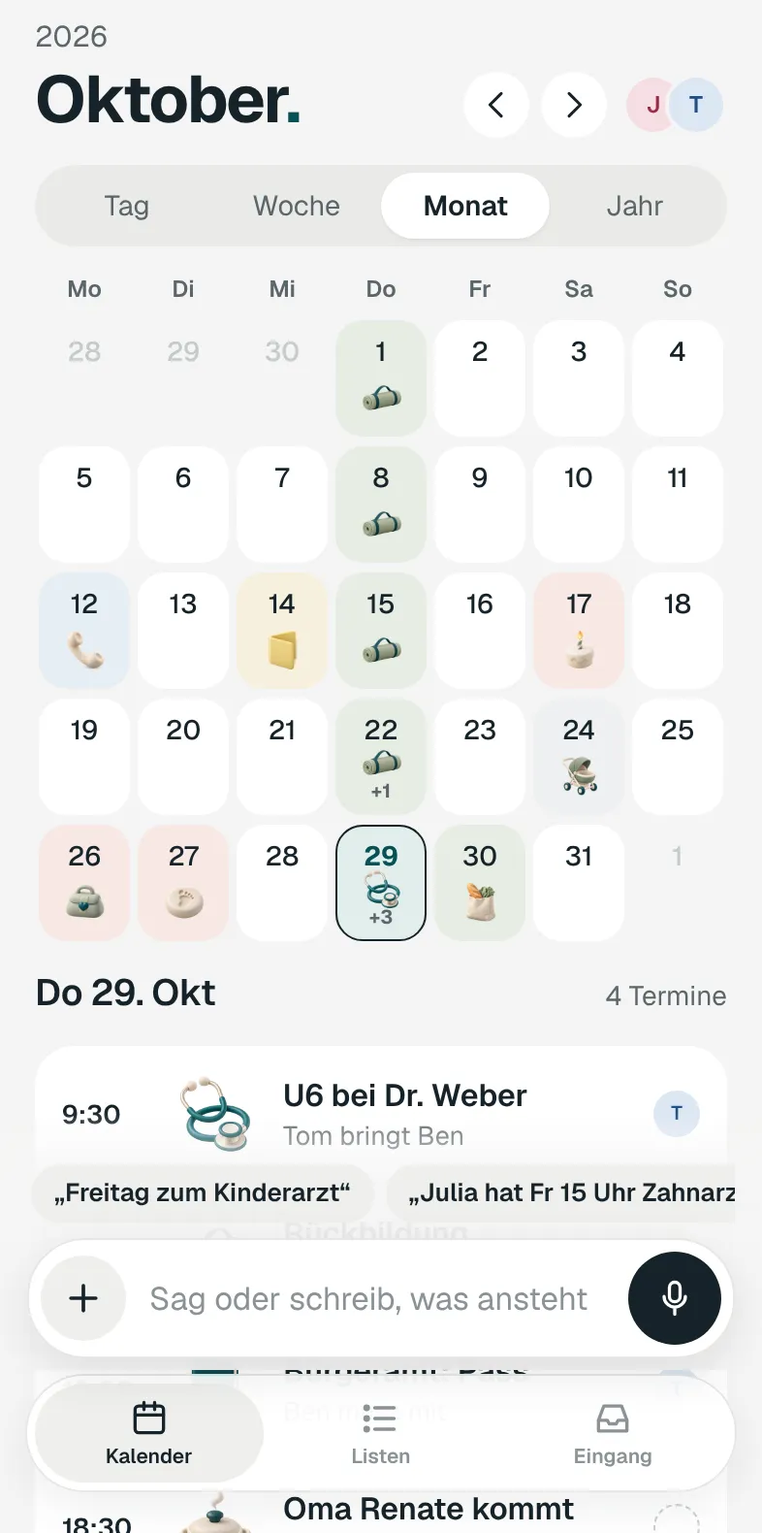
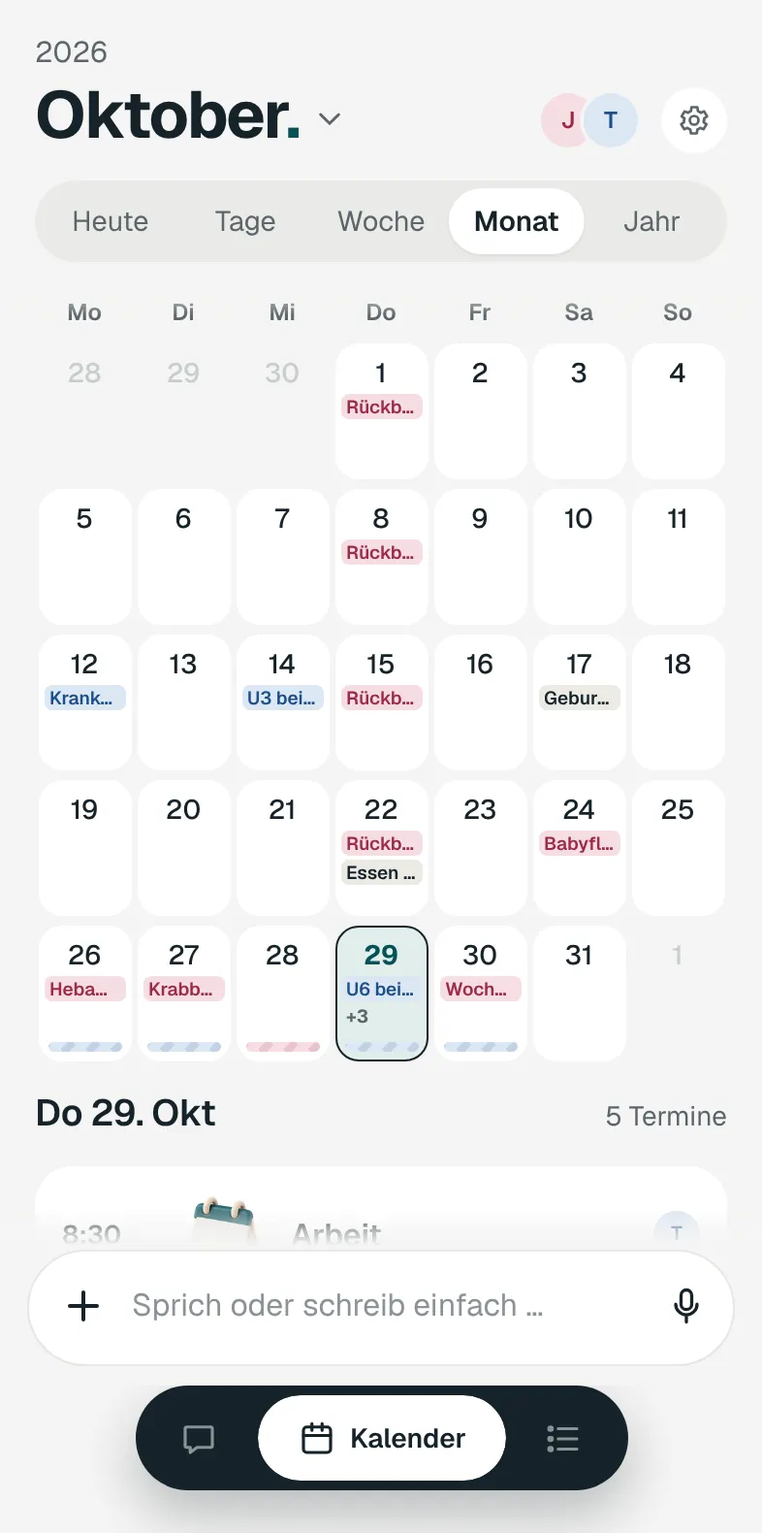
Landing Page: jede fertige Funktion einzeln im Hero, Screens aus der echten App
Zwölf Abschnitte statt drei, je mit eigenem Screen aus der Web-Demo der App.
sync-screens.js fotografiert jetzt die App statt des alten Prototyps.

Claude-Session: https://claude.ai/code/session_017DTGJGUYwRXRGxkyGNMDvJ

diff --git a/landing/landing.src.html b/landing/landing.src.html
@@ -236,16 +236,25 @@ h1 { font-weight: 600; font-size: clamp(40px, 6.4vw, 78px); line-height: 1.02; l
       <div class="cta-row"><a class="btn btn-primary" href="#liste" data-i18n="cta1">Auf die Warteliste</a><a class="btn btn-ghost" href="https://claude.ai/artifact/NfyQBbzthKG9d21rTXfM1F" target="_blank" rel="noopener" data-i18n="cta2">Prototyp ansehen</a></div>
     </div>
 
-    <div class="ph side" data-pos="-2" aria-hidden="true"><div class="screen"><span class="island"></span><div class="scr shot" data-scr-name="monat" style="background:{{bg:monat}}"><div class="status"><span>8:50</span><span>●●●</span></div><img src="{{shot:monat}}" alt=""></div></div></div>
-    <div class="ph side" data-pos="-1" aria-hidden="true"><div class="screen"><span class="island"></span><div class="scr shot" data-scr-name="listen" style="background:{{bg:listen}}"><div class="status"><span>8:50</span><span>●●●</span></div><img src="{{shot:listen}}" alt=""></div></div></div>
-    <div class="ph side" data-pos="1" aria-hidden="true"><div class="screen"><span class="island"></span><div class="scr shot" data-scr-name="eingang" style="background:{{bg:eingang}}"><div class="status"><span>8:50</span><span>●●●</span></div><img src="{{shot:eingang}}" alt=""></div></div></div>
-    <div class="ph side" data-pos="2" aria-hidden="true"><div class="screen"><span class="island"></span><div class="scr shot" data-scr-name="onb" style="background:{{bg:onb}}"><div class="status"><span>8:50</span><span>●●●</span></div><img src="{{shot:onb}}" alt=""></div></div></div>
+    <div class="ph side" data-pos="-2" aria-hidden="true"><div class="screen"><span class="island"></span><div class="scr shot" data-scr-name="jahr" style="background:{{bg:jahr}}"><div class="status"><span>8:50</span><span>●●●</span></div><img src="{{shot:jahr}}" alt=""></div></div></div>
+    <div class="ph side" data-pos="-1" aria-hidden="true"><div class="screen"><span class="island"></span><div class="scr shot" data-scr-name="tage" style="background:{{bg:tage}}"><div class="status"><span>8:50</span><span>●●●</span></div><img src="{{shot:tage}}" alt=""></div></div></div>
+    <div class="ph side" data-pos="1" aria-hidden="true"><div class="screen"><span class="island"></span><div class="scr shot" data-scr-name="brieflesen" style="background:{{bg:brieflesen}}"><div class="status"><span>8:50</span><span>●●●</span></div><img src="{{shot:brieflesen}}" alt=""></div></div></div>
+    <div class="ph side" data-pos="2" aria-hidden="true"><div class="screen"><span class="island"></span><div class="scr shot" data-scr-name="monat" style="background:{{bg:monat}}"><div class="status"><span>8:50</span><span>●●●</span></div><img src="{{shot:monat}}" alt=""></div></div></div>
 
     <div class="ph" id="mainPhone" role="img" data-i18n-aria="phone"><div class="screen" id="mainScreen"><span class="island"></span>
-      <div class="scr shot" data-scr-name="tag" style="background:{{bg:tag}}"><div class="status"><span>8:50</span><span>●●●</span></div><img src="{{shot:tag}}" alt=""></div>
-      <div class="scr shot stacked" data-scr-name="talk3" style="background:{{bg:talk3}}"><div class="status"><span>8:50</span><span>●●●</span></div><img src="{{shot:talk3}}" alt=""></div>
+      <div class="scr shot" data-scr-name="chat" style="background:{{bg:chat}}"><div class="status"><span>8:50</span><span>●●●</span></div><img src="{{shot:chat}}" alt=""></div>
       <div class="scr shot stacked" data-scr-name="termin" style="background:{{bg:termin}}"><div class="status"><span>8:50</span><span>●●●</span></div><img src="{{shot:termin}}" alt=""></div>
+      <div class="scr shot stacked" data-scr-name="nachfrage" style="background:{{bg:nachfrage}}"><div class="status"><span>8:50</span><span>●●●</span></div><img src="{{shot:nachfrage}}" alt=""></div>
+      <div class="scr shot stacked" data-scr-name="einkauf" style="background:{{bg:einkauf}}"><div class="status"><span>8:50</span><span>●●●</span></div><img src="{{shot:einkauf}}" alt=""></div>
+      <div class="scr shot stacked" data-scr-name="brief" style="background:{{bg:brief}}"><div class="status"><span>8:50</span><span>●●●</span></div><img src="{{shot:brief}}" alt=""></div>
+      <div class="scr shot stacked" data-scr-name="fragen" style="background:{{bg:fragen}}"><div class="status"><span>8:50</span><span>●●●</span></div><img src="{{shot:fragen}}" alt=""></div>
+      <div class="scr shot stacked" data-scr-name="heute" style="background:{{bg:heute}}"><div class="status"><span>8:50</span><span>●●●</span></div><img src="{{shot:heute}}" alt=""></div>
       <div class="scr shot stacked" data-scr-name="woche" style="background:{{bg:woche}}"><div class="status"><span>8:50</span><span>●●●</span></div><img src="{{shot:woche}}" alt=""></div>
+      <div class="scr shot stacked" data-scr-name="listen" style="background:{{bg:listen}}"><div class="status"><span>8:50</span><span>●●●</span></div><img src="{{shot:listen}}" alt=""></div>
+      <div class="scr shot stacked" data-scr-name="ort" style="background:{{bg:ort}}"><div class="status"><span>8:50</span><span>●●●</span></div><img src="{{shot:ort}}" alt=""></div>
+      <div class="scr shot stacked" data-scr-name="urlaub" style="background:{{bg:urlaub}}"><div class="status"><span>8:50</span><span>●●●</span></div><img src="{{shot:urlaub}}" alt=""></div>
+      <div class="scr shot stacked" data-scr-name="kalender" style="background:{{bg:kalender}}"><div class="status"><span>8:50</span><span>●●●</span></div><img src="{{shot:kalender}}" alt=""></div>
+      <div class="scr shot stacked" data-scr-name="widget" style="background:{{bg:widget}}"><div class="status"><span>8:50</span><span>●●●</span></div><img src="{{shot:widget}}" alt=""></div>
     </div></div>
 
     <div class="card l" id="cardL" aria-hidden="true"><div class="inner" id="innerL"></div></div>
@@ -292,7 +301,7 @@ const T = {
     h1: 'Einmal sagen. Beide wissen’s.',
     lede: 'Sprich, tipp oder fotografier, was ansteht. FamCal erkennt, ob es ein Termin oder etwas für die Einkaufsliste ist, und legt es an die richtige Stelle. Bei euch beiden, sofort.',
     cta1: 'Auf die Warteliste', cta2: 'Prototyp ansehen',
-    phone: 'Echte Screens aus dem FamCal Prototyp: Tagesansicht, ein gesprochener Satz wird eingetragen, Termindetails, Woche nach Personen.',
+    phone: 'Echte Screens aus der FamCal App: Chat, Termin per Satz, Nachfrage, Einkauf, Brief per Foto, Partner fragen, Heute, Woche, Listen, Orte, Urlaub und Feiertage, Kalender verbinden, Widget.',
     wlH: 'Bald zu zweit ausprobieren.', wlP: 'Tragt euch ein, dann melden wir uns, sobald ihr FamCal gemeinsam testen könnt.',
     mail: 'E‑Mail', ph: 'eure@mail.de', submit: 'Eintragen', note: 'Vorschau: Das Formular speichert noch nichts.', thanks: 'Danke! In dieser Vorschau wird noch nichts gespeichert.',
     t1: 'In eurer Sprache', t1s: 'Deutsch und Englisch ab dem ersten Tag. Versteht „übermorgen“ und „halb drei“.',
@@ -300,12 +309,30 @@ const T = {
     t3: 'Alle gleichberechtigt', t3s: 'Niemand ist Admin, alle sehen und ändern alles.',
     f1: 'FamCal · Arbeitsname · Köln', f2: 'Einmal sagen. Beide wissen’s.',
     feats: [
-      { h: "Ein Satz, alles an seinem Platz.", p: "„Milch und Windeln, und Mia hat Donnerstag um drei Zahnarzt.“ FamCal teilt den Satz auf: zwei Sachen auf die Einkaufsliste, ein Termin in den richtigen Tag. Kein Formular, kein Sortieren.",
-        f: [["Sprechen, tippen, fotografieren", "Eine Zeile unten auf jedem Screen, auch für Kita Zettel und Einladungen."], ["Mitdenken am Ort", "Die Schritte erscheinen dort, wo der Termin entsteht, und haken sich ab."], ["Alles bleibt bearbeitbar", "Antippen, und die Zeile wird zum Textfeld."]] },
-      { h: "Er kennt euren Alltag.", p: "FamCal merkt sich, was ihr einmal gesagt habt, und ergänzt, was bei euch vor Ort gilt. Alles, was er selbst ergänzt, ist markiert und hat eine Quelle.",
-        f: [["Orte vom letzten Mal", "Praxis, Büro, Verein oder Oma müsst ihr nur einmal nennen."], ["Was bei euch gilt", "Feiertage, Schulferien und Öffnungszeiten."], ["Immer mit Quelle", "Jede Ergänzung zeigt, woher sie kommt."]] },
-      { h: "Beide wissen es, sofort.", p: "Sie spricht im Büro die Einkaufsliste ein, er steht im Supermarkt und hat sie schon. Niemand muss weiterleiten, erinnern oder den Sekretär spielen.",
-        f: [["Wer, ohne zuzuweisen", "„Tom holt Mia ab“ landet bei Tom."], ["Leise statt laut", "Keine Werbung, keine Streaks. Nur Fristen melden sich."], ["Vorlagen für jede Phase", "Baby, Schulstart, Umzug oder Urlaub, fertig zum Loslegen."]] }
+      { h: "Sag es einfach.", p: "Sprich oder tipp einen Satz, in jeder Sprache. FamCal macht daraus einen Termin mit Tag, Uhrzeit und wer hingeht, und antwortet kurz in deiner Sprache.",
+        f: [["Sprechen in jeder Sprache", "Das Handy hört zu, der Text landet im Feld."], ["Anlegen, ändern, löschen", "„Verschieb den Zahnarzt auf Montag“ reicht."], ["Alles bleibt bearbeitbar", "Jeder Eintrag lässt sich antippen und ändern."]] },
+      { h: "Fehlt etwas, fragt er nach.", p: "Keine Uhrzeit genannt? FamCal trägt den Termin trotzdem ein und fragt kurz nach. Ein Tipp auf die Antwort, fertig.",
+        f: [["Antworten zum Antippen", "9:00, 15:00 oder ganztägig, ohne zu tippen."], ["Wer geht?", "Ich, Tom oder beide, direkt am Termin."]] },
+      { h: "Ein Satz, und es steht auf der Liste.", p: "„Wir brauchen Milch und Windeln“ landet auf der Einkaufsliste, bei euch beiden. Schickt ein Rezept oder einen Link, und die Zutaten kommen dazu.",
+        f: [["Rezept zu Zutaten", "Ein Link oder ein Gericht genügt."], ["Gemerkt fürs nächste Mal", "Beim nächsten „Ich koche Bolognese“ kennt FamCal das Rezept."]] },
+      { h: "Brief fotografieren, fertig.", p: "Ein Foto vom Brief, und FamCal findet Termine, Fristen und was mitzubringen ist. Ihr bestätigt mit einem Tipp.",
+        f: [["Fristen im Kalender", "Mit Datum und Erinnerung."], ["Aufgaben und Mitbringen", "Landen dort, wo sie hingehören."], ["Das Foto bleibt bei euch", "Nur die Einträge kommen in den Kalender."]] },
+      { h: "Partner fragen, ohne Hin und Her.", p: "„Frag Tom, ob Samstag passt.“ Tom bekommt eine Karte mit Ja und Nein. Im Familienchat seht ihr beide alles live.",
+        f: [["Ja oder Nein", "Eine Antwort, und der Termin steht."], ["Familienchat mit Live Karten", "Jeder Eintrag erscheint sofort beim anderen."]] },
+      { h: "Heute auf einen Blick.", p: "Was als Nächstes ansteht, wer hingeht und was mit muss. Darunter eure offenen To-dos.",
+        f: [["Als Nächstes", "Mit Countdown, Ort und Mitbringen."], ["Offene To-dos", "Was heute fällig ist, steht mit drin."]] },
+      { h: "Jede Ansicht, die ihr braucht.", p: "Tage, Woche, Monat und Jahr. Jeder Termin hat die Farbe der Person, die hingeht.",
+        f: [["Termine ziehen", "Verschieben mit dem Finger."], ["Nach Person filtern", "Nur Toms oder nur Julias Termine."], ["Wischen zum Löschen", "Mit Rückgängig, falls es zu schnell ging."]] },
+      { h: "Listen für alles.", p: "Einkauf, Zu erledigen und eure eigenen Listen, für beide gleichzeitig aktuell.",
+        f: [["Punkteliste", "Für Rommé und andere Spiele."], ["Watchlist mit Covern", "Filme und Serien, die ihr sehen wollt."], ["Vorlagen", "Urlaub, Kliniktasche, Erstausstattung."]] },
+      { h: "Er merkt sich eure Orte.", p: "Einmal bestätigt, kennt FamCal euren Kinderarzt. Beim nächsten Termin stehen Adresse und Karte von selbst dabei.",
+        f: [["Einmal sagen", "Danach kommt der Ort automatisch."], ["Mit Karte", "Adresse direkt am Termin."]] },
+      { h: "Urlaub und Feiertage.", p: "Wählt Land und Bundesland, dann stehen eure Feiertage im Kalender. Urlaubstage zählt FamCal für jeden mit.",
+        f: [["Feiertage nach Region", "Deutschland, Österreich, Schweiz und mehr."], ["Urlaubstage im Blick", "Wochenenden und Feiertage zählen nicht."]] },
+      { h: "Eure Kalender kommen mit.", p: "Verbindet den Kalender vom Handy, damit nichts doppelt ist. Ihr wählt, was erscheint, der Rest bleibt privat.",
+        f: [["iCloud, Google, Outlook", "Arbeit erscheint nur als gestreifter Block."], ["Kalender Abo", "Eure Termine auch in Apple oder Google Kalender."]] },
+      { h: "Heute auf dem Homescreen.", p: "Das Widget zeigt den nächsten Termin und den Tag, ohne die App zu öffnen. Ein Tipp führt an die richtige Stelle.",
+        f: [["Klein und mittel", "Zuerst für Android."], ["Immer aktuell", "Ändert einer etwas, sieht es der andere sofort."]] }
     ]
   },
   en: {
@@ -313,7 +340,7 @@ const T = {
     h1: 'Say it once. You both know.',
     lede: 'Say, type or snap what’s coming up. FamCal knows whether it’s an appointment or something for the shopping list and puts it in the right place. For both of you, instantly.',
     cta1: 'Join the waitlist', cta2: 'See the prototype',
-    phone: 'Real screens from the FamCal prototype, in German: day view, a spoken sentence being added, event details, week by person.',
+    phone: 'Real screens from the FamCal app, in German: chat, an event from one sentence, a follow-up question, shopping, a letter photo, asking your partner, today, week, lists, places, holidays, connected calendars, widget.',
     wlH: 'Try it as a pair soon.', wlP: 'Sign up and we will let you know as soon as you can test FamCal together.',
     mail: 'Email', ph: 'you@email.com', submit: 'Sign up', note: 'Preview: the form does not save anything yet.', thanks: 'Thanks! Nothing is saved in this preview yet.',
     t1: 'In your language', t1s: 'English and German from day one. Gets “day after tomorrow” and “half past two”.',
@@ -321,12 +348,30 @@ const T = {
     t3: 'Everyone equal', t3s: 'No admins. Everyone sees and edits everything.',
     f1: 'FamCal · working name · Cologne', f2: 'Say it once. You both know.',
     feats: [
-      { h: "One sentence, everything in its place.", p: "“Milk and nappies, and Mia has the dentist Thursday at three.” FamCal splits it up: two things on the shopping list, one appointment on the right day. No forms, no sorting.",
-        f: [["Speak, type or snap a photo", "One line at the bottom of every screen, even for school letters and invitations."], ["Thinks along in place", "The steps show up right where the event is created and tick themselves off."], ["Everything stays editable", "Tap a line and it turns into a text field."]] },
-      { h: "It knows your routine.", p: "FamCal remembers what you told it once and adds what applies where you live. Everything it adds on its own is marked and has a source.",
-        f: [["Places from last time", "Name the doctor, the office, the club or grandma just once."], ["What applies locally", "Public holidays, school breaks and opening hours."], ["Always with a source", "Every addition shows where it came from."]] },
-      { h: "You both know, instantly.", p: "She adds the shopping at work, he is in the supermarket and already has it. Nobody forwards, reminds or plays secretary.",
-        f: [["Who, without assigning", "“Tom picks up Mia” lands with Tom."], ["Quiet, not loud", "No ads, no streaks. Only deadlines speak up."], ["Templates for every phase", "New baby, first school day, moving or holidays, ready to go."]] }
+      { h: "Just say it.", p: "Say or type one sentence, in any language. FamCal turns it into an event with day, time and who is going, and answers briefly in your language.",
+        f: [["Speak in any language", "Your phone listens, the text lands in the field."], ["Add, change, delete", "“Move the dentist to Monday” is enough."], ["Everything stays editable", "Tap any entry to change it."]] },
+      { h: "Something missing? It asks.", p: "No time given? FamCal adds the event anyway and asks a quick question. One tap on the answer and you are done.",
+        f: [["Answers to tap", "9:00, 15:00 or all day, no typing."], ["Who is going?", "Me, Tom or both, right on the event."]] },
+      { h: "One sentence, and it's on the list.", p: "“We need milk and nappies” lands on the shopping list, for both of you. Send a recipe or a link and the ingredients are added.",
+        f: [["Recipe to ingredients", "A link or a dish is enough."], ["Remembered for next time", "Next time you say “I'm making bolognese”, FamCal knows the recipe."]] },
+      { h: "Snap a letter, done.", p: "Take a photo of a letter and FamCal finds the dates, deadlines and what to bring. You confirm with one tap.",
+        f: [["Deadlines in the calendar", "With date and reminder."], ["To-dos and things to bring", "Land where they belong."], ["The photo stays with you", "Only the entries go into the calendar."]] },
+      { h: "Ask your partner, no back and forth.", p: "“Ask Tom if Saturday works.” Tom gets a card with yes and no. In the family chat you both see everything live.",
+        f: [["Yes or no", "One answer and the event is set."], ["Family chat with live cards", "Every entry shows up for the other right away."]] },
+      { h: "Today at a glance.", p: "What is next, who is going and what to bring. Below it, your open to-dos.",
+        f: [["Up next", "With countdown, place and things to bring."], ["Open to-dos", "Whatever is due today is right there."]] },
+      { h: "Every view you need.", p: "Days, week, month and year. Every event has the color of the person going.",
+        f: [["Drag events", "Move them with your finger."], ["Filter by person", "Only Tom's or only Julia's events."], ["Swipe to delete", "With undo, in case it was too quick."]] },
+      { h: "Lists for everything.", p: "Shopping, to-dos and your own lists, up to date for both of you at once.",
+        f: [["Score sheet", "For rummy and other games."], ["Watchlist with covers", "Films and shows you want to see."], ["Templates", "Holidays, hospital bag, baby essentials."]] },
+      { h: "It remembers your places.", p: "Confirm your pediatrician once and FamCal knows it. Next time, address and map are added on their own.",
+        f: [["Say it once", "After that the place comes automatically."], ["With a map", "The address right on the event."]] },
+      { h: "Holidays and time off.", p: "Pick your country and region and your public holidays appear in the calendar. FamCal counts everyone's vacation days.",
+        f: [["Holidays by region", "Germany, Austria, Switzerland, the US, the UK and more."], ["Vacation days in view", "Weekends and holidays don't count."]] },
+      { h: "Your calendars come along.", p: "Connect the calendar on your phone so nothing is doubled. You choose what shows up, the rest stays private.",
+        f: [["iCloud, Google, Outlook", "Work shows up only as a striped block."], ["Calendar subscription", "Your events in Apple or Google Calendar too."]] },
+      { h: "Today on your home screen.", p: "The widget shows the next event and your day without opening the app. One tap takes you to the right spot.",
+        f: [["Small and medium", "Android first."], ["Always up to date", "When one of you changes something, the other sees it right away."]] }
     ]
   }
 };
@@ -344,7 +389,7 @@ function setLang(l) {
   const other = l === 'de' ? 'en' : 'de';
   $('lang').textContent = other.toUpperCase(); $('lang').lang = other; $('lang').setAttribute('aria-label', t.other);
   $('mode').setAttribute('aria-label', t[document.documentElement.dataset.mode === 'dark' ? 'light' : 'dark']);
-  $('innerL').innerHTML = FEATS.map((x, i) => `<div class="blk"><span class="num">${i + 1} / 3</span><h2>${x.h}</h2><p>${x.p}</p></div>`).join('');
+  $('innerL').innerHTML = FEATS.map((x, i) => `<div class="blk"><span class="num">${i + 1} / ${FEATS.length}</span><h2>${x.h}</h2><p>${x.p}</p></div>`).join('');
   $('innerR').innerHTML = FEATS.map(x => `<div class="blk">${featsHTML(x.f)}</div>`).join('');
   $('srFeat').innerHTML = FEATS.map(x => `<h2>${x.h}</h2><p>${x.p}</p><ul>${x.f.map(([b, s]) => `<li>${b}: ${s}</li>`).join('')}</ul>`).join('');
 }
@@ -374,7 +419,7 @@ function measure() {
     $('scrolly').style.height = '';
     buildMobile(); frame(0); return;
   }
-  const L = H * .9, p1 = H * .85;
+  const L = H * .78, p1 = H * .85;
   if (narrow) {
     // Handy: Telefon oben fest, eine Textkarte darunter
     const top = document.querySelector('.nav').getBoundingClientRect().bottom + 12, cardMin = 190;
@@ -390,7 +435,7 @@ function measure() {
   M.k = narrow ? cardH / L : 1;
   [innerL, innerR].forEach(inn => [...inn.children].forEach(b => { b.style.height = L * M.k + 'px' }));
   [cardL, cardR].forEach(c => { c.style.width = cardW + 'px'; c.style.height = cardH + 'px' });
-  $('scrolly').style.height = (H + p1 + 2.35 * L) + 'px';
+  $('scrolly').style.height = (H + p1 + (FEATS.length - .65) * L) + 'px';
   frame(scrollProgress());
 }
 function scrollProgress() { return isStatic ? 0 : Math.max(0, -$('scrolly').getBoundingClientRect().top) }
@@ -427,7 +472,7 @@ function frame(s) {
   }
   const t = s - p1;
   innerL.style.transform = `translateY(${cardH / 2 - L * M.k / 2 - t * M.k}px)`;
-  innerR.style.transform = `translateY(${cardH / 2 - L / 2 - t * 1.08 + 24}px)`;
+  innerR.style.transform = `translateY(${cardH / 2 - L / 2 - t + 24}px)`;
   const pr = i => i < scr.length ? clamp((t - ((i - 1) * L - .6 * L)) / (.5 * L)) : 0;
   scr.forEach((el, i) => {
     const mine = i ? pr(i) : 1, next = pr(i + 1);
@@ -464,7 +509,7 @@ function buildMobile() {
 lastW = document.documentElement.clientWidth; lastH = innerHeight;
 measure();
 
-$('lang').addEventListener('click', () => { const l = lang === 'de' ? 'en' : 'de'; setLang(l); try { localStorage.setItem('famcal-lang', l) } catch (e) {} measure() });
+$('lang').addEventListener('click', () => { const l = lang === 'de' ? 'en' : 'de'; setLang(l); try { localStorage.setItem('famcal-lang', l) } catch (e) {} built = false; measure() });
 
 $('wl').addEventListener('submit', e => { e.preventDefault(); $('wlnote').textContent = T[lang].thanks });
 </script>

diff --git a/landing/sync-screens.js b/landing/sync-screens.js
@@ -1,13 +1,14 @@
 /**
- * Holt die App-Screens der Landing Page aus dem Prototyp, damit beide gleich bleiben.
- * Startet den Prototyp (eine HTML-Datei, z. B. dist/famcal-prototyp.html oder die
- * gespeicherte Artifact-Seite) auf einem lokalen Server, lädt die Beispielfamilie und
- * fotografiert die Screens nach landing/shots/*.webp. Danach baut build.py die Seite.
+ * Holt die App-Screens der Landing Page aus der echten App, damit beide gleich bleiben.
+ * Baut man die App als Web-Demo (Beispielfamilie, keine Anmeldung), startet dieses Skript
+ * einen lokalen Server darauf, lädt die Beispielfamilie und fotografiert jede Funktion
+ * nach landing/shots/*.webp. Danach baut build.py die Seite.
  *
- *   node landing/sync-screens.js <prototyp.html>
+ *   (im App-Repo)  EXPO_PUBLIC_DEMO=1 EXPO_OFFLINE=1 CI=1 npx expo export -p web
+ *   node landing/sync-screens.js <app>/dist
  *   python3 landing/build.py landing/landing.src.html <ausgabe.html>
  *
- * Fehlt ein Screen (Text im Prototyp geändert), bleibt das alte Bild und das Skript
+ * Fehlt ein Screen (Text in der App geändert), bleibt das alte Bild und das Skript
  * nennt den Schritt.
  */
 const http = require('http');
@@ -16,52 +17,66 @@ const path = require('path');
 const { execFileSync } = require('child_process');
 const { chromium } = require('playwright');
 
-const SRC = process.argv[2];
-if (!SRC) { console.error('Aufruf: node landing/sync-screens.js <prototyp.html>'); process.exit(1); }
+const ROOT = process.argv[2] && path.resolve(process.argv[2]);
+if (!ROOT || !fs.existsSync(path.join(ROOT, 'index.html'))) { console.error('Aufruf: node landing/sync-screens.js <app>/dist'); process.exit(1); }
 const OUT = path.join(__dirname, 'shots');
 const W = 393, H = 790, PORT = 8765;
+const URL = `http://localhost:${PORT}`;
+const MIME = { '.html': 'text/html', '.js': 'application/javascript', '.css': 'text/css', '.webp': 'image/webp', '.png': 'image/png', '.ttf': 'font/ttf', '.json': 'application/json', '.jpg': 'image/jpeg' };
 
-// Jeder Screen: Name in landing/shots und die Schritte dorthin, ausgehend vom Kalender nach "Ich wurde eingeladen".
+// Jeder Screen: Name in landing/shots und der Weg dorthin, ausgehend vom Chat der Beispielfamilie.
 const SCREENS = [
-  ['tag', async () => {}],
-  ['talk3', async (p) => { await p.getByText('„Freitag zum Kinderarzt“').first().click(); await p.waitForTimeout(2000); }, { reload: true }],
-  ['termin', async (p) => { await p.getByText('U6 bei Dr. Weber').first().click(); }, { back: true }],
-  ['woche', async (p) => { await p.getByText('Woche', { exact: true }).first().click(); }],
-  ['monat', async (p) => { await p.getByText('Monat', { exact: true }).first().click(); }],
-  ['listen', async (p) => { await p.getByText('Listen', { exact: true }).first().click(); }],
-  ['eingang', async (p) => { await p.getByText('Eingang', { exact: true }).first().click(); }],
+  ['chat', async () => {}],
+  ['termin', async ({ say }) => { await say('Freitag 15 Uhr Zahnarzt mit Ben'); }],
+  ['einkauf', async ({ say }) => { await say('Wir brauchen Milch und Windeln'); }],
+  ['nachfrage', async ({ say }) => { await say('Samstag Kindergeburtstag bei Lena'); }],
+  ['fragen', async ({ say }) => { await say('Frag Tom, ob Samstag passt'); }],
+  ['heute', async ({ tab }) => { await tab('Kalender'); }],
+  ['tage', async ({ tab, view }) => { await tab('Kalender'); await view('Tage'); }],
+  ['woche', async ({ tab, view }) => { await tab('Kalender'); await view('Woche'); }],
+  ['monat', async ({ tab, view }) => { await tab('Kalender'); await view('Monat'); }],
+  ['jahr', async ({ tab, view }) => { await tab('Kalender'); await view('Jahr'); }],
+  ['listen', async ({ tab }) => { await tab('Listen'); }],
+  ['ort', async ({ p, tab }) => { await tab('Kalender'); await p.getByText('U6 bei Dr. Weber').first().click(); }],
+  ['urlaub', async ({ setting }) => { await setting('Urlaub und Feiertage'); }],
+  ['kalender', async ({ setting }) => { await setting('Google Kalender'); }],
+  ['widget', async ({ setting }) => { await setting('Widgets'); }],
+  ['brief', async ({ p }) => { await p.goto(URL + '/foto-verstanden'); }],
+  ['brieflesen', async ({ p }) => { await p.goto(URL + '/foto-lesen'); }],
 ];
 
 (async () => {
-  const page = fs.readFileSync(SRC);
-  const html = page.includes('<html') ? page : Buffer.concat([Buffer.from('<!doctype html><html><head><meta charset="utf-8"><meta name="viewport" content="width=device-width, initial-scale=1"></head><body>'), page, Buffer.from('</body></html>')]);
-  const server = http.createServer((q, r) => { r.writeHead(200, { 'content-type': 'text/html' }); r.end(html); }).listen(PORT);
+  const server = http.createServer((q, r) => {
+    let f = path.join(ROOT, decodeURIComponent(q.url.split('?')[0]));
+    if (!f.startsWith(ROOT) || !fs.existsSync(f) || fs.statSync(f).isDirectory()) f = path.join(ROOT, 'index.html');
+    r.writeHead(200, { 'content-type': MIME[path.extname(f)] || 'application/octet-stream' }); fs.createReadStream(f).pipe(r);
+  }).listen(PORT);
   const b = await chromium.launch();
   const p = await b.newPage({ viewport: { width: W, height: H }, deviceScaleFactor: 2 });
   const tmp = fs.mkdtempSync(path.join(require('os').tmpdir(), 'famcal-shots-'));
   const save = async (name) => {
-    await p.waitForTimeout(1600);
+    await p.waitForTimeout(1800);
     const png = path.join(tmp, name + '.png');
     await p.screenshot({ path: png });
     execFileSync('python3', ['-c', `from PIL import Image; Image.open(${JSON.stringify(png)}).convert('RGB').save(${JSON.stringify(path.join(OUT, name + '.webp'))}, 'WEBP', quality=80)`]);
     console.log('ok', name);
   };
-  const start = async () => {
-    await p.goto(`http://localhost:${PORT}/`); await p.waitForTimeout(2500);
+  // Neu laden verliert die Beispielfamilie, darum jedes Mal frisch über "Ich wurde eingeladen"
+  const fresh = async () => {
+    await p.goto(URL); await p.evaluate(() => localStorage.clear()); await p.goto(URL); await p.waitForTimeout(2500);
+    await p.getByText('Ich wurde eingeladen').click({ timeout: 8000 }); await p.waitForTimeout(2200);
+  };
+  const h = {
+    p,
+    say: async (t) => { await p.getByPlaceholder(/Sprich oder schreib/).fill(t); await p.waitForTimeout(300); await p.keyboard.press('Enter'); await p.waitForTimeout(3000); },
+    tab: async (n) => { await p.getByLabel(n, { exact: true }).first().click(); await p.waitForTimeout(1800); },
+    view: async (n) => { await p.getByText(n, { exact: true }).first().click(); await p.waitForTimeout(1500); },
+    setting: async (n) => { await p.getByLabel(/Einstellungen/).first().click(); await p.waitForTimeout(1500); await p.getByText(n, { exact: true }).first().click(); },
   };
   const failed = [];
-  await start(); await save('onb');
-  const invite = async () => { await p.getByText('Ich wurde eingeladen').click({ timeout: 8000 }); await p.waitForTimeout(1500); };
-  await invite();
-  for (const [name, go, opt = {}] of SCREENS) {
-    try {
-      await go(p); await save(name);
-      if (opt.reload) { await start(); await invite(); }
-      if (opt.back) { await p.goBack(); await p.waitForTimeout(1200); }
-    } catch (e) {
-      failed.push(name); console.log('FEHLT', name, e.message.split('\n')[0]);
-      await start(); await invite();
-    }
+  for (const [name, go] of SCREENS) {
+    try { await fresh(); await go(h); await save(name); }
+    catch (e) { failed.push(name); console.log('FEHLT', name, e.message.split('\n')[0]); }
   }
   await b.close(); server.close();
   if (failed.length) { console.log('Nicht aktualisiert:', failed.join(', ')); process.exitCode = 2; }

diff --git a/landing/README.md b/landing/README.md
@@ -1,12 +1,15 @@
 # Landing Page
 
-Quelle: `landing.src.html`. Die Telefone zeigen echte Screens aus dem Prototyp (`shots/*.webp`).
+Quelle: `landing.src.html`. Die Telefone zeigen echte Screens aus der App (`shots/*.webp`), eine Funktion pro Abschnitt im Hero. Texte stehen auf Deutsch und Englisch im `T` Dictionary, die Funktionen in `feats`. Die Reihenfolge der Screens im `#mainScreen` muss zu `feats` passen.
 
-Nach jeder neuen Prototyp-Version:
+Nach jeder neuen App-Version:
 
-    node landing/sync-screens.js <prototyp.html>      # Screens neu fotografieren
+    # im App-Repo (Branch claude/project-thread-lc90u5): Web-Demo mit Beispielfamilie bauen
+    EXPO_PUBLIC_DEMO=1 EXPO_OFFLINE=1 CI=1 npx expo export -p web
+    # hier
+    node landing/sync-screens.js <app>/dist           # Screens neu fotografieren
     python3 landing/build.py landing/landing.src.html famcal-landing.html
 
-`<prototyp.html>` ist `dist/famcal-prototyp.html` aus dem Prototyp-Build oder die gespeicherte Seite des Prototyp-Links. Danach `famcal-landing.html` auf https://claude.ai/artifact/996SkyXtAPmLNg3yicTGtW veröffentlichen.
+Danach `famcal-landing.html` auf https://claude.ai/artifact/996SkyXtAPmLNg3yicTGtW veröffentlichen.
 
-Welche Screens wohin kommen, steht in `SCREENS` in `sync-screens.js`. Ändert sich ein Text, über den das Skript navigiert (z. B. „U6 bei Dr. Weber“), meldet es den Screen als fehlend und behält das alte Bild.
+Welche Screens wohin kommen, steht in `SCREENS` in `sync-screens.js`. Ändert sich ein Text, über den das Skript navigiert (z. B. „U6 bei Dr. Weber“ oder „Urlaub und Feiertage“), meldet es den Screen als fehlend und behält das alte Bild.
